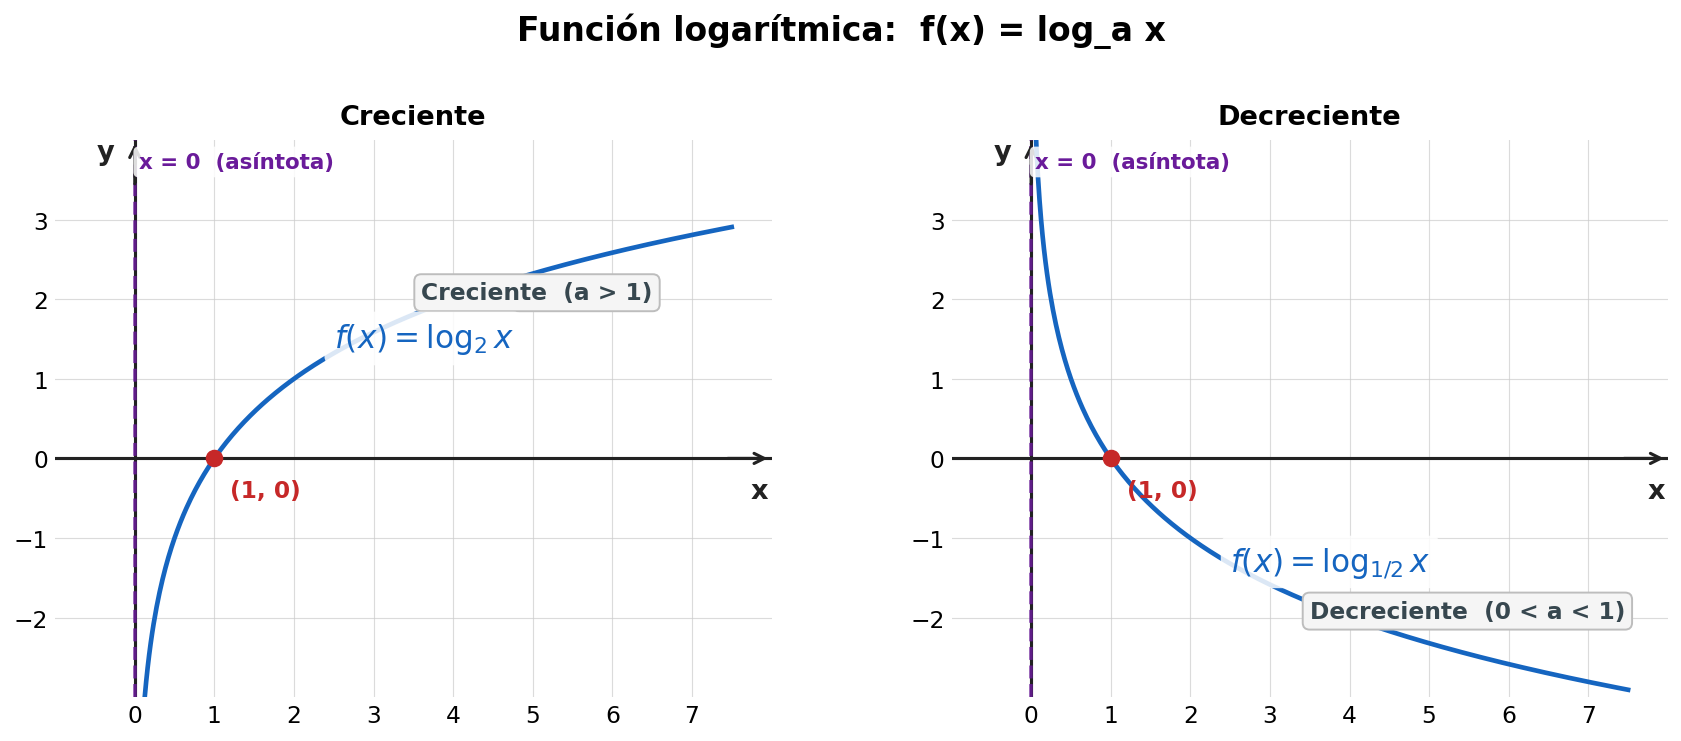
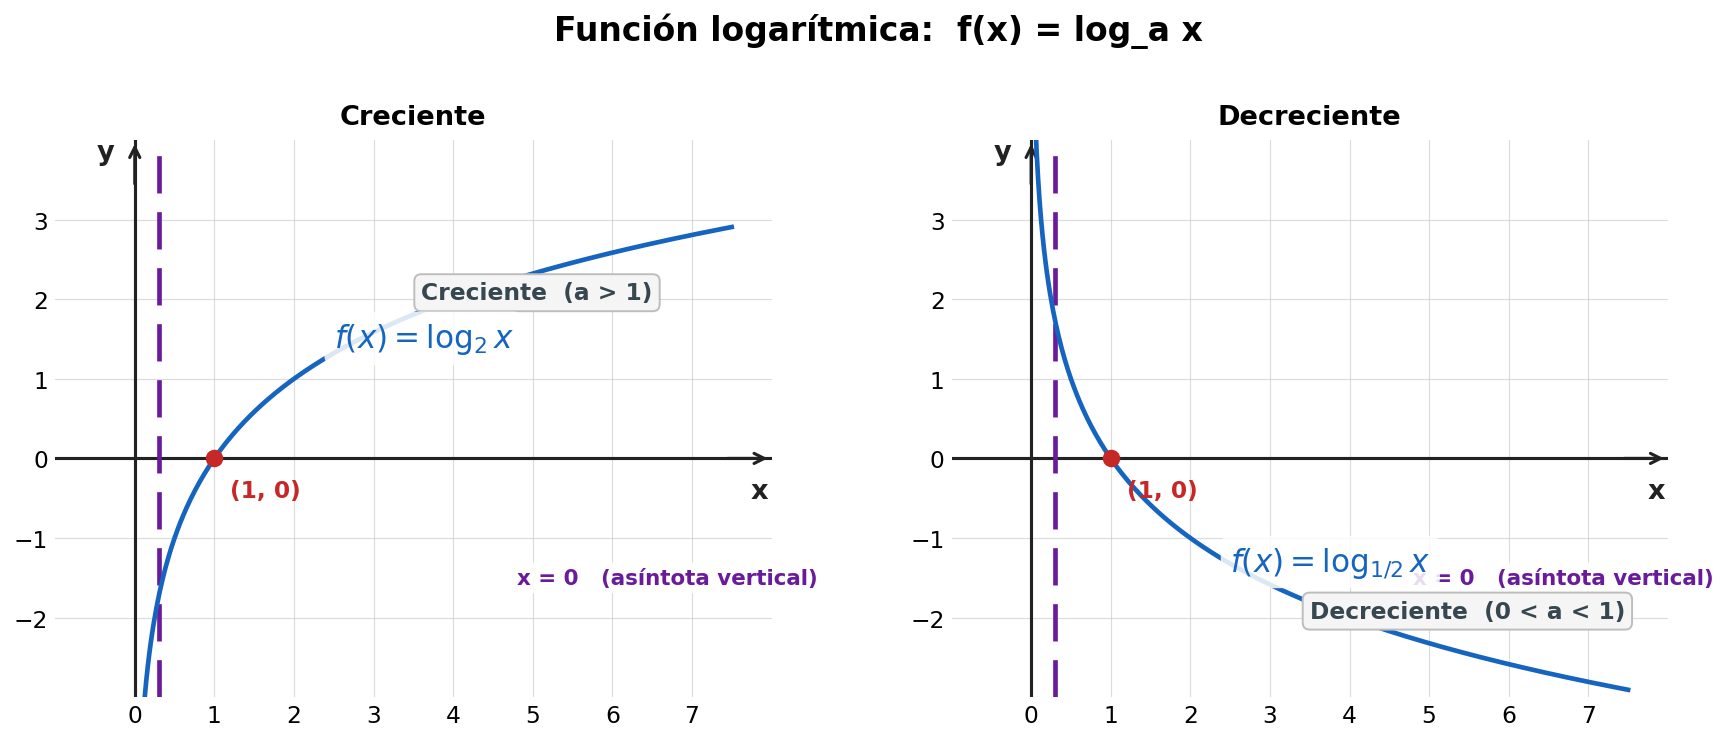
Increase asymptote line offset for better visibility
In the exponential and logarithmic plots, the asymptote dashed line was
overlapping the x-axis / y-axis (they share y=0 and x=0 respectively),
making the asymptote visually indistinguishable from the axis itself.
Bumping the offset from 0.06 to 0.3 unit pushes the dashed line clearly
off the axis while still reading as 'the line the curve approaches'.

diff --git a/gen_graficas_temas_basicos.py b/gen_graficas_temas_basicos.py
@@ -69,24 +69,31 @@ def _label_point(ax, x, y, label, dx=0.25, dy=0.25, ha="left"):
 
 
 def _draw_asymptote_h(ax, y, x_range, label_text, label_xy):
-    """Horizontal asymptote, drawn thicker and more visible."""
-    ax.plot(x_range, [y, y], "--", color=ASINT_COLOR, linewidth=1.8,
-            alpha=0.85, zorder=2)
-    ax.text(label_xy[0], label_xy[1], label_text, fontsize=11,
+    """Horizontal asymptote — dashed line offset well above x-axis so it's
+    visually distinct from the solid black axis below it.
+    """
+    y_offset = 0.3
+    ax.plot(x_range, [y + y_offset, y + y_offset], "--", color=ASINT_COLOR,
+            linewidth=2.4, dashes=(8, 4), alpha=1.0, zorder=2)
+    ax.text(label_xy[0], label_xy[1] + y_offset, label_text, fontsize=11,
             color=ASINT_COLOR, ha="right", va="bottom",
             fontweight="bold",
             bbox=dict(boxstyle="round,pad=0.25", facecolor="white",
-                      edgecolor="none", alpha=0.85))
+                      edgecolor="none", alpha=0.9))
 
 
 def _draw_asymptote_v(ax, x, y_range, label_text, label_xy):
-    ax.plot([x, x], y_range, "--", color=ASINT_COLOR, linewidth=1.8,
-            alpha=0.85, zorder=2)
-    ax.text(label_xy[0], label_xy[1], label_text, fontsize=11,
-            color=ASINT_COLOR, ha="left", va="top",
+    """Vertical asymptote — offset well to the right of the y-axis so it
+    stands apart from the solid black axis.
+    """
+    x_offset = 0.3
+    ax.plot([x + x_offset, x + x_offset], y_range, "--", color=ASINT_COLOR,
+            linewidth=2.4, dashes=(8, 4), alpha=1.0, zorder=2)
+    ax.text(label_xy[0] + x_offset, label_xy[1], label_text, fontsize=11,
+            color=ASINT_COLOR, ha="left", va="center",
             fontweight="bold",
             bbox=dict(boxstyle="round,pad=0.25", facecolor="white",
-                      edgecolor="none", alpha=0.85))
+                      edgecolor="none", alpha=0.9))
 
 
 def _draw_axis_of_symmetry(ax, x, y_range, label_text):
@@ -217,8 +224,9 @@ def graf_exponencial():
     x = np.linspace(-4, 4.4, 300)
     ax.plot(x, 2 ** x, color=CURVE_COLOR, linewidth=2.4, zorder=3)
     _label_point(ax, 0, 1, "(0, 1)", dx=0.25, dy=0.2, ha="left")
-    _draw_asymptote_h(ax, 0, (-4, 5), "y = 0  (asíntota)",
-                      label_xy=(5.0, 0.18))
+    # Asymptote label placed away from the subplot title (centered below)
+    _draw_asymptote_h(ax, 0, (-4, 5), "y = 0   (asíntota horizontal)",
+                      label_xy=(0.5, 0.25))
     ax.text(-3.6, 5.5, "Creciente  (a > 1)",
             fontsize=12, color="#37474f", fontweight="bold",
             ha="left",
@@ -236,8 +244,8 @@ def graf_exponencial():
     x = np.linspace(-0.5, 4.5, 300)
     ax.plot(x, (1 / 2) ** x, color=CURVE_COLOR, linewidth=2.4, zorder=3)
     _label_point(ax, 0, 1, "(0, 1)", dx=0.25, dy=0.2, ha="left")
-    _draw_asymptote_h(ax, 0, (-1, 5), "y = 0  (asíntota)",
-                      label_xy=(5.0, 0.18))
+    _draw_asymptote_h(ax, 0, (-1, 5), "y = 0   (asíntota horizontal)",
+                      label_xy=(2.0, 0.25))
     ax.text(0.4, 6.7, "Decreciente  (0 < a < 1)",
             fontsize=12, color="#37474f", fontweight="bold",
             ha="left",
@@ -269,8 +277,9 @@ def graf_logaritmica():
     x = np.linspace(0.05, 7.5, 400)
     ax.plot(x, np.log2(x), color=CURVE_COLOR, linewidth=2.4, zorder=3)
     _label_point(ax, 1, 0, "(1, 0)", dx=0.2, dy=-0.55, ha="left")
-    _draw_asymptote_v(ax, 0, (-3, 4), "x = 0  (asíntota)",
-                      label_xy=(0.05, 3.85))
+    # Asymptote label placed in middle of plot, away from subplot title
+    _draw_asymptote_v(ax, 0, (-3, 4), "x = 0   (asíntota vertical)",
+                      label_xy=(4.5, -1.5))
     ax.text(3.6, 2.0, "Creciente  (a > 1)",
             fontsize=12, color="#37474f", fontweight="bold",
             ha="left",
@@ -288,8 +297,8 @@ def graf_logaritmica():
     x = np.linspace(0.05, 7.5, 400)
     ax.plot(x, -np.log2(x), color=CURVE_COLOR, linewidth=2.4, zorder=3)
     _label_point(ax, 1, 0, "(1, 0)", dx=0.2, dy=-0.55, ha="left")
-    _draw_asymptote_v(ax, 0, (-3, 4), "x = 0  (asíntota)",
-                      label_xy=(0.05, 3.85))
+    _draw_asymptote_v(ax, 0, (-3, 4), "x = 0   (asíntota vertical)",
+                      label_xy=(4.5, -1.5))
     ax.text(3.5, -2.0, "Decreciente  (0 < a < 1)",
             fontsize=12, color="#37474f", fontweight="bold",
             ha="left",